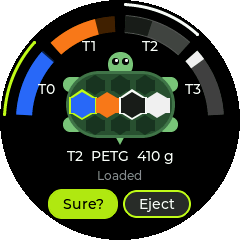
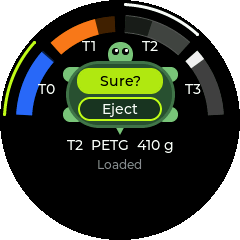
Show up to 8 AFC lanes (0.4.0)
With more than 4 lanes, a second unit's lanes fill the lower half of the
ring, labelled on the segments themselves. The turtle and the text under it
stay put for 4 and 8 lanes: command buttons now sit on the turtle's shell,
which is a plain, even honeycomb with the lane colours on the ring only.
The lane AFC is moving blinks instead of sending dots to the turtle.
Adds an 8-lane simulator scenario and README screenshot.

Changed region(s): [[0.2625, 0.175, 0.7583, 0.7583], [0.175, 0.7875, 0.8167, 0.9333], [0.2625, 0.5833, 0.35, 0.6708]]

diff --git a/ui/ui_lanes.cpp b/ui/ui_lanes.cpp
@@ -1,7 +1,7 @@
-// Box Turtle screen. Lanes sit on the upper half of the ring, each a segment
-// filled in its filament colour as far as the spool is full. In the middle is
-// the turtle: its shell plates are the lanes, it walks while AFC moves
-// filament and hides when AFC reports an error. Tapping a lane (or the turtle)
+// Box Turtle screen. Lanes sit on the upper half of the ring (a second unit's
+// lanes 5-8 on the lower half), each a segment filled in its filament colour
+// as far as the spool is full. In the middle is the turtle: it walks while
+// AFC moves filament and hides when AFC reports an error. Tapping a lane (or the turtle)
 // opens commands; each needs a second tap to run, and they are locked while
 // printing.
 #include <initializer_list>
@@ -15,9 +15,8 @@ namespace {
 
 const float CX = 120, CY = 120, R = 104;  // lane ring
 const int32_t RING_W = 16;
-const float TX = 120, TY = 104;           // turtle centre
+const float TX = 120, TY = 94;            // turtle centre, the same for 4 and 8 lanes
 const uint32_t SKIN = 0x7BC47F, SHELL = 0x2F5236, SHELL_RIM = 0x46774F, SHELL_DARK = 0x1E3523;
-const int MAX_SHOWN = 4;
 const int MENU = 100;
 
 lv_obj_t *canvas, *line1, *line2, *btn[2], *btn_lbl[2];
@@ -35,9 +34,16 @@ struct Action {
 Action acts[2];
 int act_count;
 
-int shown() { return S->lane_count < MAX_SHOWN ? S->lane_count : MAX_SHOWN; }
+bool buttons_up() { return sel >= 0 && act_count > 0; }
 
-float seg_deg() { return 180.0f / (shown() ? shown() : 1); }
+int shown() { return S->lane_count < MAX_LANES ? S->lane_count : MAX_LANES; }
+
+// More than 4 lanes use the whole ring, 4 per half, so the first unit stays put.
+bool full_ring() { return shown() > 4; }
+
+float seg_deg() { return full_ring() ? 45 : 180.0f / (shown() ? shown() : 1); }
+
+float lane_a0(int i) { return fmodf(180 + i * seg_deg(), 360); }
 
 bool lane_full(const Lane &L) { return L.prep || L.load || L.tool_loaded; }
 
@@ -76,7 +82,7 @@ void text_at(lv_layer_t *l, const char *t, const lv_font_t *f, float cx, float c
     d.color = lv_color_hex(c);
     d.align = LV_TEXT_ALIGN_CENTER;
     const int32_t h = lv_font_get_line_height(f);
-    lv_area_t a = {(int32_t)cx - 30, (int32_t)(cy - h / 2.0f), (int32_t)cx + 30, (int32_t)(cy + h / 2.0f)};
+    lv_area_t a = {(int32_t)cx - 22, (int32_t)(cy - h / 2.0f), (int32_t)cx + 22, (int32_t)(cy + h / 2.0f)};
     lv_draw_label(l, &d, &a);
 }
 
@@ -110,19 +116,12 @@ void draw_turtle(lv_layer_t *l, float ox, float oy) {
     // shell
     draw_rect(l, x - 54, y - 33, x + 54, y + 33, 33, SHELL_RIM);
     draw_rect(l, x - 51, y - 30, x + 51, y + 30, 30, SHELL);
-    for (int j = 0; j < 3; j++) {
-        draw_hex(l, x + (j - 1) * 25, y - 19, 10, SHELL_DARK);
-        draw_hex(l, x + (j - 1) * 25, y + 21, 10, SHELL_DARK);
-    }
-    const int n = shown();
-    const int mv = moving_lane();
-    for (int i = 0; i < n; i++) {
-        const Lane &L = S->lanes[i];
-        const float hx = x + (i - (n - 1) / 2.0f) * 25, hy = y + 1;
-        const bool hot = L.tool_loaded || i == mv || i == sel;
-        if (hot) draw_hex(l, hx, hy, 15.5f, i == sel ? 0xFFFFFF : O.accent);
-        else if (lane_full(L) && lane_dark(L)) draw_hex(l, hx, hy, 14.5f, 0x6E6E73);
-        draw_hex(l, hx, hy, 13, lane_full(L) ? lane_col(L) : SHELL_DARK);
+    // A plain 3-4-3 honeycomb; the lane colours live on the ring. Command
+    // buttons sit on the shell when they are up.
+    if (!buttons_up()) {
+        for (int j = 0; j < 4; j++) draw_hex(l, x + (j - 1.5f) * 20, y + 1, 9, SHELL_DARK);
+        for (int j = 0; j < 3; j++)
+            for (int s : {-1, 1}) draw_hex(l, x + (j - 1) * 20, y + 1 + s * 17, 9, SHELL_DARK);
     }
     if (hide) {
         // peeking out of the shell
@@ -147,7 +146,7 @@ void canvas_draw(lv_event_t *e) {
 
     for (int i = 0; i < n; i++) {
         const Lane &L = S->lanes[i];
-        const float a0 = 180 + i * seg + 3, a1 = 180 + (i + 1) * seg - 3;
+        const float a0 = lane_a0(i) + 3, a1 = lane_a0(i) + seg - 3;
         const float mid = (a0 + a1) / 2;
         if (lane_full(L)) {
             const uint32_t c = lane_col(L);
@@ -158,6 +157,10 @@ void canvas_draw(lv_event_t *e) {
         } else {
             draw_arc(l, ox + CX, oy + CY, R - RING_W / 2 + 2, 3, a0, a1, COL_DIM, LV_OPA_COVER, false);
         }
+        // The lane AFC is moving blinks.
+        if (i == mv)
+            draw_arc(l, ox + CX, oy + CY, R + 1, RING_W + 2, a0, a1, 0x000000,
+                     (lv_opa_t)(200 * (1 - pulse)), false);
         uint32_t mark = 0;
         lv_opa_t mark_opa = LV_OPA_COVER;
         if (i == err_lane) { mark = COL_RED; mark_opa = (lv_opa_t)(120 + 135 * pulse); }
@@ -165,24 +168,23 @@ void canvas_draw(lv_event_t *e) {
         else if (L.tool_loaded || i == mv) mark = O.accent;
         if (mark) draw_arc(l, ox + CX, oy + CY, R + 13, 3, a0, a1, mark, mark_opa, true);
         const float rad = mid * (float)M_PI / 180;
-        text_at(l, L.map[0] ? L.map : L.name, &lv_font_montserrat_14, ox + CX + 80 * cosf(rad),
-                oy + CY + 80 * sinf(rad), lane_full(L) ? COL_TEXT : COL_MUTED);
-    }
-
-    // Filament flowing between the spool and the turtle.
-    if (mv >= 0 && mv < n) {
-        const float mid = (180 + (mv + 0.5f) * seg) * (float)M_PI / 180;
-        const float x0 = ox + CX + (R - 12) * cosf(mid), y0 = oy + CY + (R - 12) * sinf(mid);
-        const float x1 = ox + TX, y1 = oy + TY - 10;
-        const bool out = strstr(S->afc_state, "nload") || strstr(S->afc_state, "ject");
-        const uint32_t c = lane_col(S->lanes[mv]);
-        for (int k = 0; k < 4; k++) {
-            float p = fmodf(now_ms / 900.0f + k / 4.0f, 1.0f);
-            if (out) p = 1 - p;
-            draw_circle(l, x0 + (x1 - x0) * p, y0 + (y1 - y0) * p, 4, c);
-            draw_circle(l, x0 + (x1 - x0) * p, y0 + (y1 - y0) * p, 1.5f, 0xFFFFFF);
+        const char *name = L.map[0] ? L.map : L.name;
+        if (full_ring()) {
+            // On the segment itself, in whichever colour reads on what is under it.
+            uint32_t ink = COL_MUTED;
+            if (lane_full(L)) {
+                const uint32_t c = lane_col(L);
+                const int luma = (c >> 16 & 0xFF) * 299 + (c >> 8 & 0xFF) * 587 + (c & 0xFF) * 114;
+                ink = lane_fill(L) > 0.5f && luma > 140000 ? 0x000000 : 0xFFFFFF;
+            }
+            const float rm = R - RING_W / 2.0f;  // arcs are drawn inward from R
+            text_at(l, name, &lv_font_montserrat_12, ox + CX + rm * cosf(rad), oy + CY + rm * sinf(rad), ink);
+        } else {
+            text_at(l, name, &lv_font_montserrat_14, ox + CX + 80 * cosf(rad), oy + CY + 80 * sinf(rad),
+                    lane_full(L) ? COL_TEXT : COL_MUTED);
         }
     }
+
     draw_turtle(l, ox, oy);
 }
 
@@ -220,11 +222,11 @@ void on_tile_click(lv_event_t *) {
     if (ang < 0) ang += 360;
     sel_ms = now_ms;
     armed = -1;
-    if (r > 84 && ang >= 180 && shown() > 0) {
-        const int i = (int)((ang - 180) / seg_deg());
+    if (r > 84 && (ang >= 180 || full_ring()) && shown() > 0) {
+        const int i = (int)(fmodf(ang + 180, 360) / seg_deg());
         sel = (sel == i) ? -1 : (i < shown() ? i : -1);
     } else if (fabsf(p.x - a.x1 - TX) < 56 && fabsf(p.y - a.y1 - TY) < 46) {
-        sel = sel == MENU ? -1 : MENU;
+        if (!buttons_up() || sel == MENU) sel = sel == MENU ? -1 : MENU;
     } else {
         close_sel();
     }
@@ -272,16 +274,16 @@ void lanes_build(lv_obj_t *t) {
     lv_obj_add_event_cb(canvas, canvas_draw, LV_EVENT_DRAW_MAIN, nullptr);
     lv_obj_add_event_cb(t, on_tile_click, LV_EVENT_SHORT_CLICKED, nullptr);
 
-    line1 = label(t, &lv_font_montserrat_14, COL_TEXT, LV_ALIGN_TOP_MID, 0, 148);
-    line2 = label(t, &lv_font_montserrat_12, COL_MUTED, LV_ALIGN_TOP_MID, 0, 168);
-    lv_obj_set_width(line2, 156);
+    line1 = label(t, &lv_font_montserrat_14, COL_TEXT, LV_ALIGN_TOP_MID, 0, 137);
+    line2 = label(t, &lv_font_montserrat_12, COL_MUTED, LV_ALIGN_TOP_MID, 0, 157);
+    lv_obj_set_width(line2, 140);
     lv_label_set_long_mode(line2, LV_LABEL_LONG_WRAP);
     for (int i = 0; i < 2; i++) {
         btn[i] = lv_button_create(t);
-        lv_obj_set_size(btn[i], 68, 28);
-        lv_obj_set_style_radius(btn[i], 14, 0);
+        lv_obj_set_size(btn[i], 84, 24);
+        lv_obj_set_style_radius(btn[i], 12, 0);
         lv_obj_set_style_shadow_width(btn[i], 0, 0);
-        lv_obj_set_style_bg_color(btn[i], lv_color_hex(0x2C2C2E), 0);
+        lv_obj_set_style_bg_color(btn[i], lv_color_hex(SHELL_DARK), 0);
         lv_obj_set_style_border_width(btn[i], 2, 0);
         btn_lbl[i] = label(btn[i], &lv_font_montserrat_14, COL_TEXT, LV_ALIGN_CENTER, 0, 0);
         lv_obj_add_event_cb(btn[i], on_btn, LV_EVENT_CLICKED, (void *)(intptr_t)i);
@@ -335,7 +337,7 @@ void lanes_update() {
     set_text(line1, a);
     set_text(line2, b);
     lv_obj_set_style_text_color(line2, lv_color_hex(b_col), 0);
-    lv_obj_align(line2, LV_ALIGN_TOP_MID, 0, S->afc_error && sel < 0 ? 166 : 168);
+    lv_obj_align(line2, LV_ALIGN_TOP_MID, 0, S->afc_error && sel < 0 ? 155 : 157);
 
     for (int i = 0; i < 2; i++) {
         const bool on = i < act_count && sel >= 0;
@@ -343,11 +345,12 @@ void lanes_update() {
         if (!on) continue;
         const bool arm = armed == i;
         set_text(btn_lbl[i], arm ? "Sure?" : acts[i].label);
-        lv_obj_set_style_bg_color(btn[i], lv_color_hex(arm ? O.accent : 0x2C2C2E), 0);
+        lv_obj_set_style_bg_color(btn[i], lv_color_hex(arm ? O.accent : SHELL_DARK), 0);
         lv_obj_set_style_border_color(btn[i], lv_color_hex(O.accent), 0);
         lv_obj_set_style_text_color(btn_lbl[i], lv_color_hex(arm ? 0x000000 : COL_TEXT), 0);
-        const int32_t x = act_count == 1 ? 0 : (i == 0 ? -37 : 37);
-        lv_obj_align(btn[i], LV_ALIGN_TOP_MID, x, 190);
+        // Stacked on the turtle's shell.
+        const int32_t y = TY - 12 + (act_count == 1 ? 1 : (i == 0 ? -13 : 15));
+        lv_obj_align(btn[i], LV_ALIGN_TOP_MID, 0, y);
     }
     lv_obj_invalidate(canvas);
 }

diff --git a/sim/sim.cpp b/sim/sim.cpp
@@ -1,5 +1,6 @@
 // Desktop simulator: renders the UI for scripted printer states into
 // 240x240 PPM frames (sim/out/*.ppm); render.py turns them into PNGs.
+#include <math.h>
 #include <stdio.h>
 #include <stdlib.h>
 #include <string.h>
@@ -209,15 +210,33 @@ int main() {
     run(500);
     snap("12-lanes-error");
 
+    // Two Box Turtles: 8 lanes, T5 loading, then T6 tapped.
+    base_state();
+    S.lane_count = 8;
+    lane(4, "T4", "ABS", 0xE5E5EA, true, 820);
+    lane(5, "T5", "ASA", 0xFF2D55, true, 640);
+    lane(6, "T6", "PLA", 0x34C759, true, 300);
+    lane(7, "T7", "", 0, false, -1);
+    ui_show_tile(3);
+    strcpy(S.afc_state, "Loading");
+    strcpy(S.afc_moving, "lane6");
+    run(500);
+    snap("12b-lanes-8");
+    strcpy(S.afc_state, "Idle");
+    strcpy(S.afc_moving, "");
+    run(200);
+    tap(120 + 96 * cosf(112.5f * 3.14159f / 180), 120 + 96 * sinf(112.5f * 3.14159f / 180));
+    snap("12c-lanes-8-T6-selected");
+
     // Tap lane T2 (upper right), arm Load, confirm it; then the turtle menu.
     base_state();
     ui_show_tile(3);
     run(300);
     tap(160, 24);
     snap("13-lanes-T2-selected");
-    tap(83, 204);
+    tap(120, 81);
     snap("13b-lanes-T2-armed");
-    tap(83, 204);
+    tap(120, 81);
     run(200);
     snap("13c-lanes-sent");
     tap(120, 104);

diff --git a/sim/gallery.py b/sim/gallery.py
@@ -57,7 +57,7 @@ DOCS = {
     "saying": "v2-05-printing-saying", "print": "v2-06-print", "temps": "v2-07-temps",
     "done": "v2-08-done-confetti", "night": "v2-14-night-clock", "lanes": "v2-10-lanes-idle",
     "lanes-loading": "v2-11-lanes-loading", "lanes-error": "v2-12-lanes-error",
-    "lanes-command": "v2-13b-lanes-T2-armed", "theme-cyan": "v2-15-theme-cyan",
+    "lanes-command": "v2-13b-lanes-T2-armed", "lanes-8": "v2-12b-lanes-8", "theme-cyan": "v2-15-theme-cyan",
     "theme-magenta": "v2-16-theme-magenta-temps", "theme-amber": "v2-17-theme-amber-print",
     "idex-concept": "d-idex", "idex-mirror-concept": "e-idex-mirror",
 }

diff --git a/src/version.h b/src/version.h
@@ -1,2 +1,2 @@
 #pragma once
-#define FW_VERSION "0.3.1"
+#define FW_VERSION "0.4.0"

diff --git a/README.md b/README.md
@@ -20,8 +20,9 @@ Swipe left and right between them. After 30 seconds without a touch the KNOMI go
 | <img src="docs/images/print.png" width="200"> | **Print.** The slicer thumbnail inside a progress ring, time left, layer and file name. |
 | <img src="docs/images/done.png" width="200"> | **Done.** Confetti, print time and filament used. It stays up until someone taps it. |
 | <img src="docs/images/temps.png" width="200"> | **Temperatures.** Nozzle and bed with their targets. |
-| <img src="docs/images/lanes.png" width="200"> | **Box Turtle.** Lanes around the top of the ring, filled in their filament colour as far as each spool is full. The turtle's shell plates are the lanes; it walks while AFC moves filament and hides when AFC reports an error. Shown only when Klipper has an AFC unit (and can be turned off). |
-| <img src="docs/images/lanes-command.png" width="200"> | **Box Turtle commands.** Tap a spool to load or eject it; tap the turtle for the unit's light, unload or reset. Every command that moves filament needs a second tap, and all of them are locked while printing. |
+| <img src="docs/images/lanes.png" width="200"> | **Box Turtle.** Lanes around the top of the ring, filled in their filament colour as far as each spool is full. The turtle walks while AFC moves filament and hides when AFC reports an error. Shown only when Klipper has an AFC unit (and can be turned off). |
+| <img src="docs/images/lanes-8.png" width="200"> | **Two Box Turtles.** Up to 8 lanes: the second unit takes the lower half of the ring. |
+| <img src="docs/images/lanes-command.png" width="200"> | **Box Turtle commands.** Tap a spool to load or eject it; tap the turtle for the unit's light, unload or reset. The buttons appear on the turtle's shell. Every command that moves filament needs a second tap, and all of them are locked while printing. |
 | <img src="docs/images/night.png" width="200"> | **Night clock.** After the printer has been idle for a while, the eyes close under a dimmed clock. |
 
 Five colour themes (Neon, Cyan, Amber, Magenta, Ice), with white or theme-coloured eyes:
@@ -36,7 +37,7 @@ Five colour themes (Neon, Cyan, Amber, Magenta, Ice), with white or theme-colour
 
 - A **BTT KNOMI V2** (the touchscreen version, ESP32-S3). The KNOMI V1 is not supported.
 - Klipper with Moonraker. The KNOMI connects to Moonraker's websocket on port 7125.
-- Optional: a Box Turtle running AFC-Klipper-Add-On 1.2 or newer.
+- Optional: a Box Turtle (or two, up to 8 lanes) running AFC-Klipper-Add-On 1.2 or newer.
 
 ## Install
 
